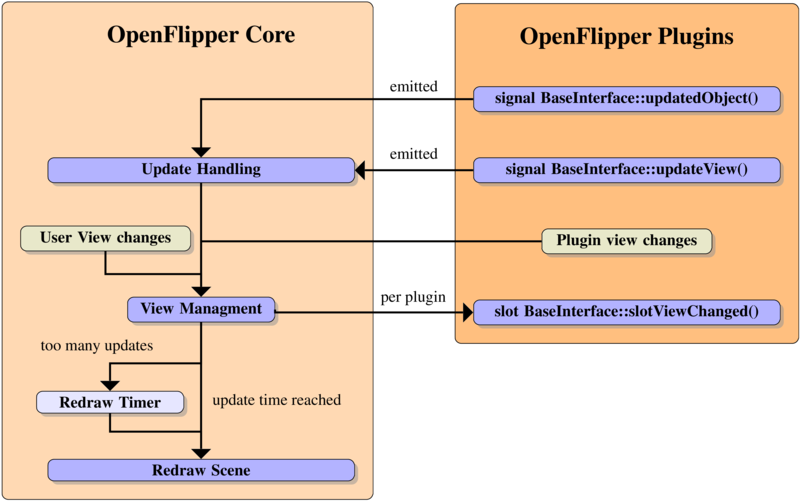
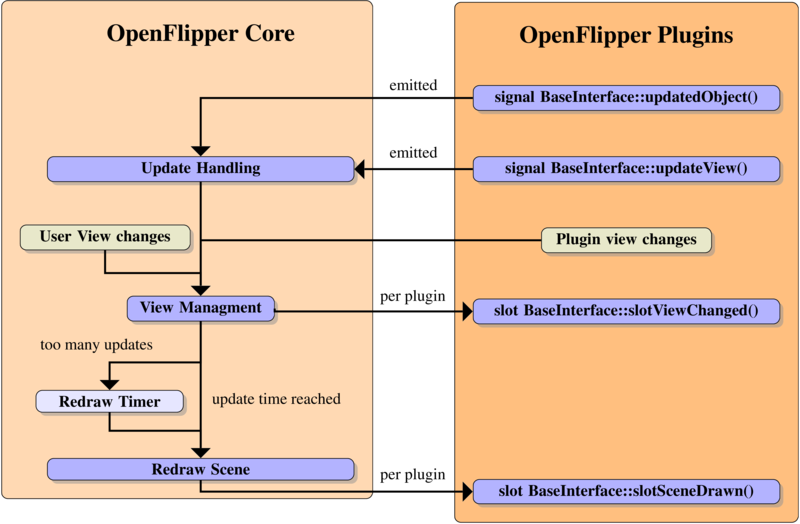
Added slotSceneDrawn to Baseinterface, including documentation. Gets triggered after gl update. closes #449
git-svn-id: http://www.openflipper.org/svnrepo/OpenFlipper/branches/Free@13866 383ad7c9-94d9-4d36-a494-682f7c89f535

diff --git a/OpenFlipper/Documentation/DeveloperHelpSources/tikz/SceneViewUpdate.tex b/OpenFlipper/Documentation/DeveloperHelpSources/tikz/SceneViewUpdate.tex
@@ -51,7 +51,10 @@ text centered, text=black, text width=3.5cm]
 \textbf{slot BaseInterface::slotViewChanged()}
 };
 
-
+\node (slotSceneDrawn)[abstract, rectangle, below=of slotViewChanged, yshift=-2.4cm ]
+{
+\textbf{slot BaseInterface::slotSceneDrawn()}
+};
 
 
 \node (coreUpdateHandling) [abstract, rectangle, left= of signalUpdateView, xshift=-1.6cm ]
@@ -91,6 +94,7 @@ text centered, text=black, text width=3.5cm]
 \node [label=above:per plugin,yshift=-3] (X) at ($ (viewManagement)!.78!(slotViewChanged.west) $) {};
 \node [label=right:update time reached] (X) at ($ (viewManagement)!.57!(redraw) $) {};
 \node [label=left:too many updates] (X) at ($ (viewManagement)!.4!(timer) $) {};
+\node [label=above:per plugin,yshift=-3] (X) at ($ (redraw.south)!.78!(slotSceneDrawn.west) $) {};
 
 \draw[flow] (pluginViewChange.west) -- ++(0,0) -| (viewManagement.north);
 \draw[flow] (userViewChange.south) -- ++(0,-0.5cm) -| (viewManagement.north);
@@ -101,10 +105,11 @@ text centered, text=black, text width=3.5cm]
 \draw[flow] (viewManagement.south) -- ++(0,-0.9) -| (timer.north);
 \draw[flow] (signalUpdateView.west) --  ++(0,0) |-  (coreUpdateHandling.east);
 \draw[flow] (timer.south) --  ++(0,-0.4) -|  (redraw.north);
+\draw[flow] (redraw.south) --  ++(0,0) |-  (slotSceneDrawn.west);
 
 \begin{pgfonlayer}{background}
 \node[CoreGroup,fit=(Core) (redraw) (userViewChange) ] (Core) {};
-\node[PluginGroup,fit=(Plugins) (signalUpdatedObject) (slotViewChanged) ] (Plugin) {};
+\node[PluginGroup,fit=(Plugins) (signalUpdatedObject) (slotSceneDrawn) ] (Plugin) {};
 \end{pgfonlayer}
 
 

diff --git a/OpenFlipper/Core/PluginLoader.cc b/OpenFlipper/Core/PluginLoader.cc
@@ -881,6 +881,9 @@ void Core::loadPlugin(QString filename, bool silent, QString& _licenseErrors, QO
     if ( checkSlot( plugin , "slotViewChanged()" ) )
       connect(this,SIGNAL(pluginViewChanged()),plugin,SLOT(slotViewChanged()), Qt::DirectConnection);
 
+    if ( checkSlot( plugin , "slotSceneDrawn()" ) )
+      connect(this,SIGNAL(pluginSceneDrawn()),plugin,SLOT(slotSceneDrawn()), Qt::DirectConnection);
+
     if ( checkSlot( plugin , "slotDrawModeChanged(int)" ) )
           connect(coreWidget_,SIGNAL(drawModeChanged(int)),plugin,SLOT(slotDrawModeChanged(int)), Qt::DirectConnection);
 

diff --git a/OpenFlipper/Core/Core.cc b/OpenFlipper/Core/Core.cc
@@ -859,7 +859,12 @@ void Core::updateView()
 
     for (unsigned int i = 0; i < OpenFlipper::Options::examinerWidgets(); ++i)
       coreWidget_->examiner_widgets_[i]->updateGL();
+
+    // Inform plugins of the scene update
+    emit pluginSceneDrawn();
   }
+
+
 }
 
 
